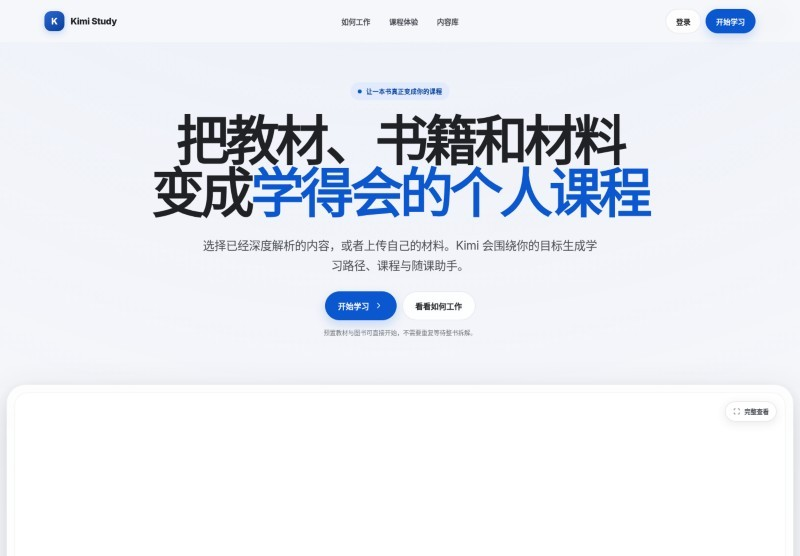
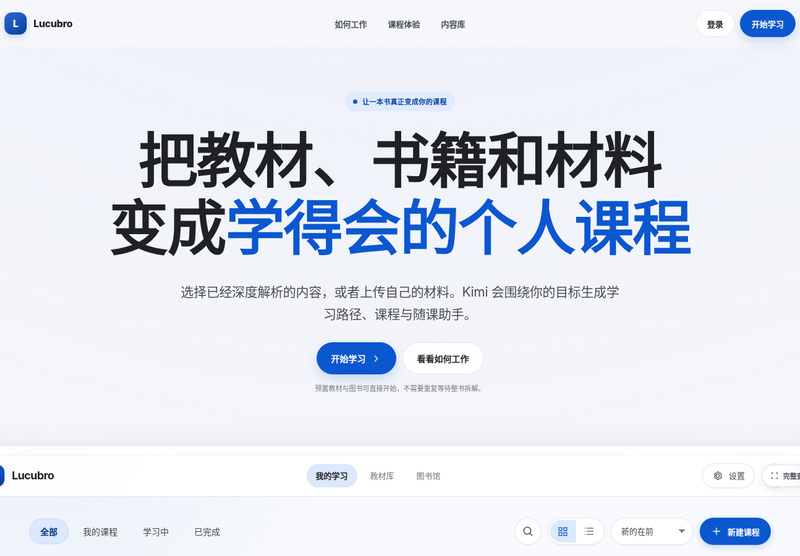
docs: regenerate brand visuals from the running Lucubro app
Cloud-executed asset regeneration (handoff package #1.5), locally
verified: all eight promotional images were recaptured from the
real application running on deterministic fixtures and recomposed
to the previous layouts - hero collage, four-step product flow,
engineering before/after, landing, course workspace, mobile,
social preview, and a new lucubro-demo.gif replacing
kimi-study-demo.gif in both READMEs.

Local acceptance: gates 129/129 node tests and 49/50 Playwright
(the single failure is a pre-existing timing flake in
contextual-learning-surface.spec.js:216, passing 3/3 in isolation
and unaffected by this image-only change); data/courses untouched.

diff --git a/README.md b/README.md
@@ -27,7 +27,7 @@ Lucubro is not a document summarizer. It reorganizes source material into a **st
 - **Source access**: return to the original PDF, EPUB, Markdown, text, HTML, or image resources.
 - **Continuous learning**: lessons, notes, chat, activities, and next-lesson generation stay attached to one course workspace.
 
-![Lucubro demo](docs/images/kimi-study-demo.gif)
+![Lucubro demo](docs/images/lucubro-demo.gif)
 
 ## The 30-second workflow
 

diff --git a/README.zh-CN.md b/README.zh-CN.md
@@ -27,7 +27,7 @@ Lucubro 不是“把书总结一下”。它试图把一份材料重新组织成
 - **来源可回看**：课程中可以返回 PDF、EPUB、Markdown、文本或 HTML 原始材料。
 - **学习可延续**：课节、笔记、聊天、活动与下一课生成都绑定到同一课程工作区。
 
-![Lucubro 演示](docs/images/kimi-study-demo.gif)
+![Lucubro 演示](docs/images/lucubro-demo.gif)
 
 ## 30 秒看产品
 
